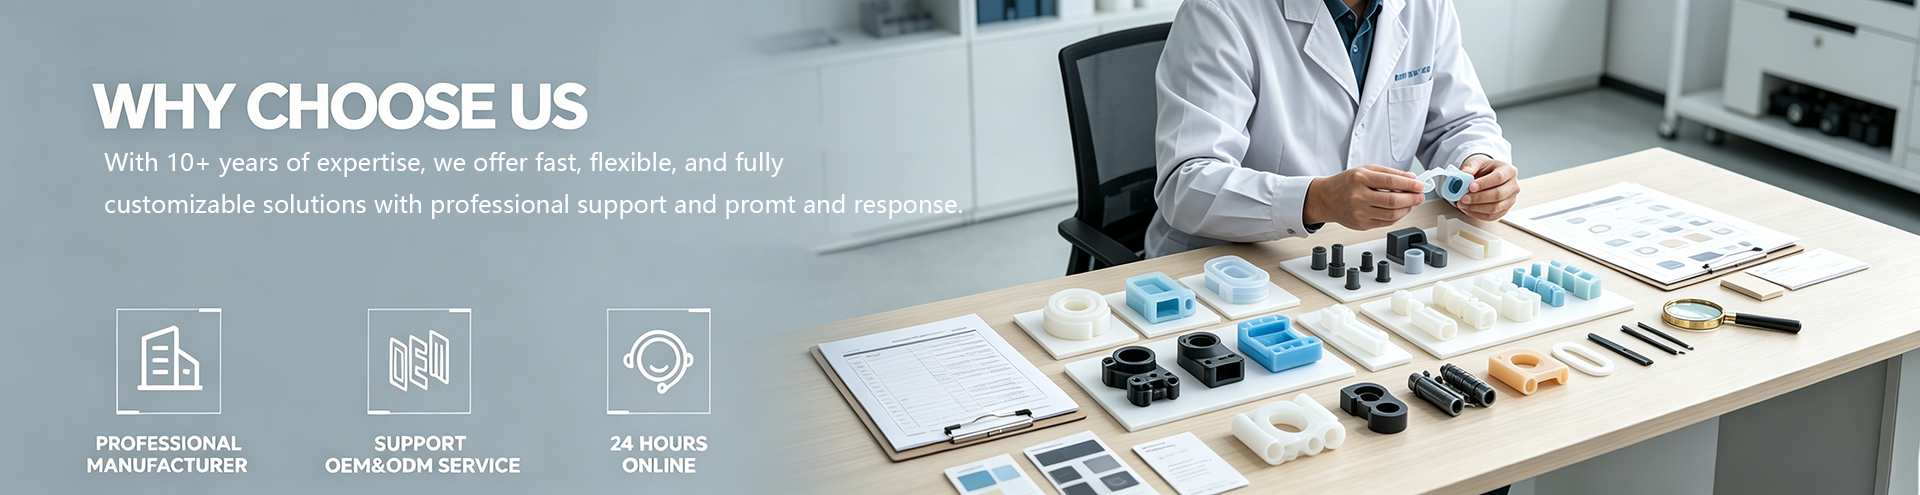
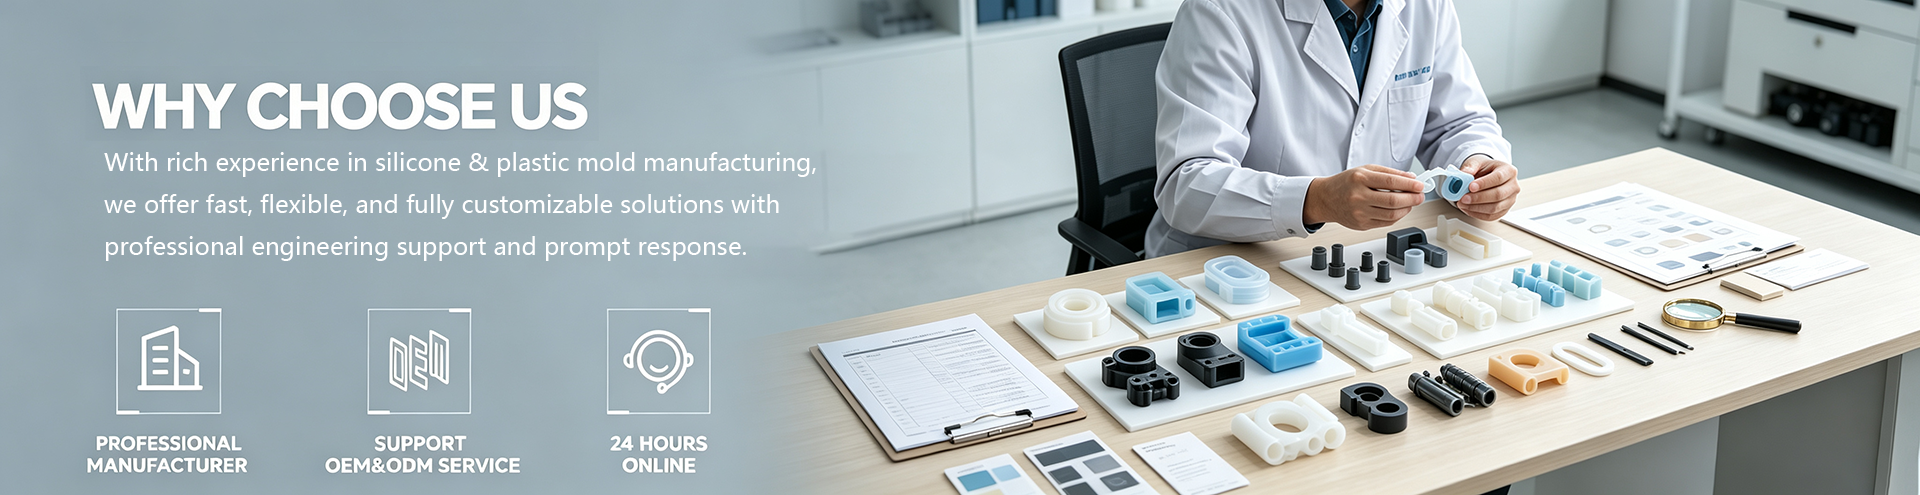
配置环境

Changed region(s): [[0.0312, 0.3939, 0.5, 0.4545], [0.0625, 0.303, 0.4375, 0.3636], [0.0312, 0.4848, 0.4062, 0.5152]]

diff --git a/templates/company.html b/templates/company.html
@@ -20,44 +20,43 @@
                 </div>
                 <!-- 4个圆形卡片 -->
                 <div class="circle-wrapper mb-4">
-                    <!-- 1. 10+ year / Silicone product customization experience -->
+                    <!-- 1.Silicone & Rubber Experience -->
                     <div class="circle-item">
                         <span class="circle-stat">10+ year</span>
-                        <span class="circle-label">Silicone product customization experience</span>
+                        <span class="circle-label">Silicone & Rubber Experience</span>
                     </div>
-                    <!-- 2. 1000M2 / Factory area -->
+                    <!-- 2.Factory area -->
                     <div class="circle-item">
-                        <span class="circle-stat">1000M²</span>
+                        <span class="circle-stat">2000M²</span>
                         <span class="circle-label">Factory area</span>
                     </div>
-                    <!-- 3. 100W+ / Monthly production -->
+                    <!-- 3.Monthy Output -->
                     <div class="circle-item">
                         <span class="circle-stat">100W+</span>
-                        <span class="circle-label">Monthly production</span>
+                        <span class="circle-label">Monthly Output</span>
                     </div>
-                    <!-- 4. 500W+ / Annual sales -->
+                    <!-- 4.Company Staff -->
                     <div class="circle-item">
-                        <span class="circle-stat">500W+</span>
-                        <span class="circle-label">Annual sales</span>
+                        <span class="circle-stat">40+</span>
+                        <span class="circle-label">Company Staff</span>
                     </div>
                 </div>
                 <div class="col-md-5 g-0 d-flex align-items-center mt-2">
                     <div class="mx-3 p-4 company-hover">
                         <p class="lh-lg">
-                            Located in Dongguan with easy access to Hong Kong, we are a professional silicone & rubber
-                            manufacturer equipped with modern production lines and an experienced technical team.
+                            HMB a professional manufacturer specializing in R&D, mold-making and custom production of
+                            silicone and rubber products with over 10 years of industry experience.
+                            Our factory covers an area of 1000 m², equipped with complete modern production lines and a
+                            seasoned technical team. We support OEM & ODM custom services.
+                            Our product range includes household & daily‑use silicone, kitchen & dining silicone,
+                            bathroom silicone, industrial silicone, medical silicone, liquid silicone (LSR) and rubber
+                            products. We provide one‑stop solutions from design, mold development, sample making to mass
+                            production.
+                            We strictly control raw material quality and manufacturing processes. Our products are
+                            exported to worldwide markets. We accept custom orders based on customers’ drawings, samples
+                            and requirements. Welcome to contact us for cooperation.
                         </p>
-                        <p>
-                            Annual capacity: nearly 1,000 tons. We use eco-friendly materials to produce custom parts
-                            with excellent resistance to temperature, chemicals, weathering, oil, abrasion, tearing, and
-                            corrosion — plus adjustable hardness.
-                        </p>
-                        <p>
-                            ISO9001 certified, with products available to meet FDA and RoHS standards.
-                        </p>
-                        <p>
-                            One-stop service: Design → Sampling → Quotation → Mass Production.
-                        </p>
+
                     </div>
                 </div>
                 <div class="col-md-7 g-0  mt-2" style="overflow: hidden;">

diff --git a/templates/index.html b/templates/index.html
@@ -52,32 +52,32 @@
             <div class="row g-2">
                 <!-- 图片 1 -->
                 <div class="col-md-4 col-sm-6 col-12">
-                    <a href="#" class="image-card">
+                    <div class="image-card">
                         <img src="{{ url_for('static', filename='img/mold-design.jpg') }}" alt="Mold Design"
                              class="img-fluid">
                         <div class="overlay">
                             <p>Mold Design</p>
                         </div>
-                    </a>
+                    </div>
                 </div>
                 <!-- 图片 2 -->
                 <div class="col-md-4 col-sm-6 col-12">
-                    <a href="#" class="image-card">
+                    <div class="image-card">
                         <img src="{{ url_for('static', filename='img/mold-marking.jpg') }}" alt="Mold Making"
                              class="img-fluid">
                         <div class="overlay">
                             <p>Mold Making</p>
                         </div>
-                    </a>
+                    </div>
                 </div>
                 <!-- 图片 3 -->
                 <div class="col-md-4 col-sm-6 col-12">
-                    <a href="#" class="image-card">
+                    <div class="image-card">
                         <img src="{{ url_for('static', filename='img/molding.jpg') }}" alt="Molding" class="img-fluid">
                         <div class="overlay">
                             <p>Molding</p>
                         </div>
-                    </a>
+                    </div>
                 </div>
             </div>
         </div>

diff --git a/templates/base.html b/templates/base.html
@@ -128,7 +128,7 @@
                 <span>Email: {{ websiteinfo.company_email }}<br></span>
                 <span>Skype: <br></span>
             </p>
-            <p>www.hanyunmold.com | All Right Reserved</p>
+            <p>www.hmbmold.com | All Right Reserved</p>
         </div>
     </div>
 {% endblock %}

diff --git a/fakes.py b/fakes.py
@@ -59,7 +59,7 @@ def fake_categories():
 
 
 def fake_about():
-    about_us = '''Haimbo Silicone & Rubber Co., Ltd.
+    about_us = '''Dong Guan HMB Silicone & Rubber Co., Ltd.
 We are located in Dong Guan City, with convenient transport links to Dongguan and Hong Kong. As a professional manufacturer specialized in silicone and rubber product development & production, we are equipped with full modern production lines and experienced technical teams.
 Our annual capacity reaches nearly 1,000 tons of silicone & rubber components. We adopt eco-friendly materials to customize parts with excellent performance: high & low temperature resistance, acid & alkali resistance, weathering, ozone resistance, oil resistance, abrasion resistance, anti-tear, anti-corrosion, and adjustable hardness.
 
@@ -108,8 +108,8 @@ def fake_website_info():
         company_name='Dong Guan HMB Silicone & Rubber Co., Ltd.',
         company_address='Dong Guan, Guangdong, China',
         company_phone='+86',
-        company_email='karen@hanyunmold.com',
-        quick_information='Dongguan-based silicone & rubber manufacturer with 1,000-ton annual capacity, ISO9001 certified, and FDA/RoHS compliant. We offer eco-friendly custom parts with strong resistance to temperature, chemicals, oil, abrasion, and corrosion, plus adjustable hardness. One-stop service from design to mass production.',
+        company_email='winnie@hmbmold.com',
+        quick_information='With more than 10 years of experience in silicone and rubber product development & production, we are equipped with complete modern production lines and an experienced technical team.',
         facebook='karen',
         twitter='karen',
         skype='karen',

diff --git a/app.py b/app.py
@@ -30,7 +30,8 @@ load_dotenv('.env')
 
 app = Flask(__name__)
 
-app.config.from_object(config['development'])
+config_name = os.environ.get('FLASK_CONFIG','development')
+app.config.from_object(config[config_name])
 
 db = SQLAlchemy(app)
 fake = Faker()
@@ -565,7 +566,7 @@ if __name__ == '__main__':
 
 @app.cli.command()  # 生成数据
 def forge():
-    from fakes import fake_products, fake_about, fake_advantage, fake_categories
+    from fakes import fake_products, fake_about, fake_advantage, fake_categories, fake_website_info
     click.echo('Drop tables....')
     db.drop_all()
     click.echo('Delete uploads photo...')
@@ -582,17 +583,11 @@ def forge():
     fake_advantage()
     click.echo('Generating categories...')
     fake_categories()
-
-    click.echo('Done.')
-
-
-@app.cli.command()
-def website():
-    from fakes import fake_website_info
     click.echo('Generating website info...')
     fake_website_info()
 
     click.echo('Done.')
+
 
 
 @app.cli.command()
